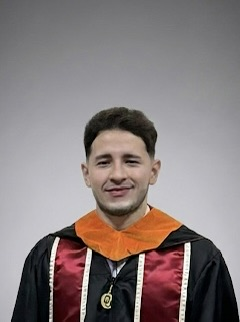
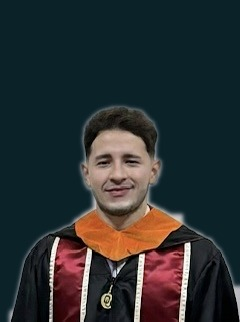
Add headshot portrait with background matched to site petrol tone
Segments the subject from the studio backdrop and recomposites it
against the site's #0C2229 petrol so it sits seamlessly in the rail,
hero, and contact panels regardless of crop.

Claude-Session: https://claude.ai/code/session_01UiW1crHGKkZQ5evztZkEKF

diff --git a/index.html b/index.html
@@ -68,6 +68,11 @@
     color:#DCE6E5;
     padding:2.6rem 2rem 2.2rem;
   }
+  .rail .portrait{
+    width:88px;height:88px;border-radius:50%;object-fit:cover;
+    display:block;margin:0 0 1.3rem;
+    border:1px solid #2C4A53;
+  }
   .rail .name{
     font-family:"Newsreader",Georgia,serif;
     font-size:2rem;line-height:1.1;color:#fff;font-weight:300;
@@ -99,6 +104,7 @@
       display:flex;flex-direction:column;
       padding:3.4rem 2.2rem 2.4rem;
     }
+    .rail .portrait{width:108px;height:108px;}
     .rail .name{font-size:2.5rem;}
     nav ul{flex-direction:column;gap:.55rem;}
     .rail-contact{margin-top:auto;}
@@ -267,6 +273,7 @@
 <div class="shell">
 
   <aside class="rail">
+    <img class="portrait" src="headshot.jpg" alt="Portrait of Milton Caballero" width="108" height="108">
     <p class="name">Milton<br>Caballero</p>
     <p class="role">Ph.D. candidate, Data Science &amp; Analytics <em>·</em> University of Oklahoma</p>
 
